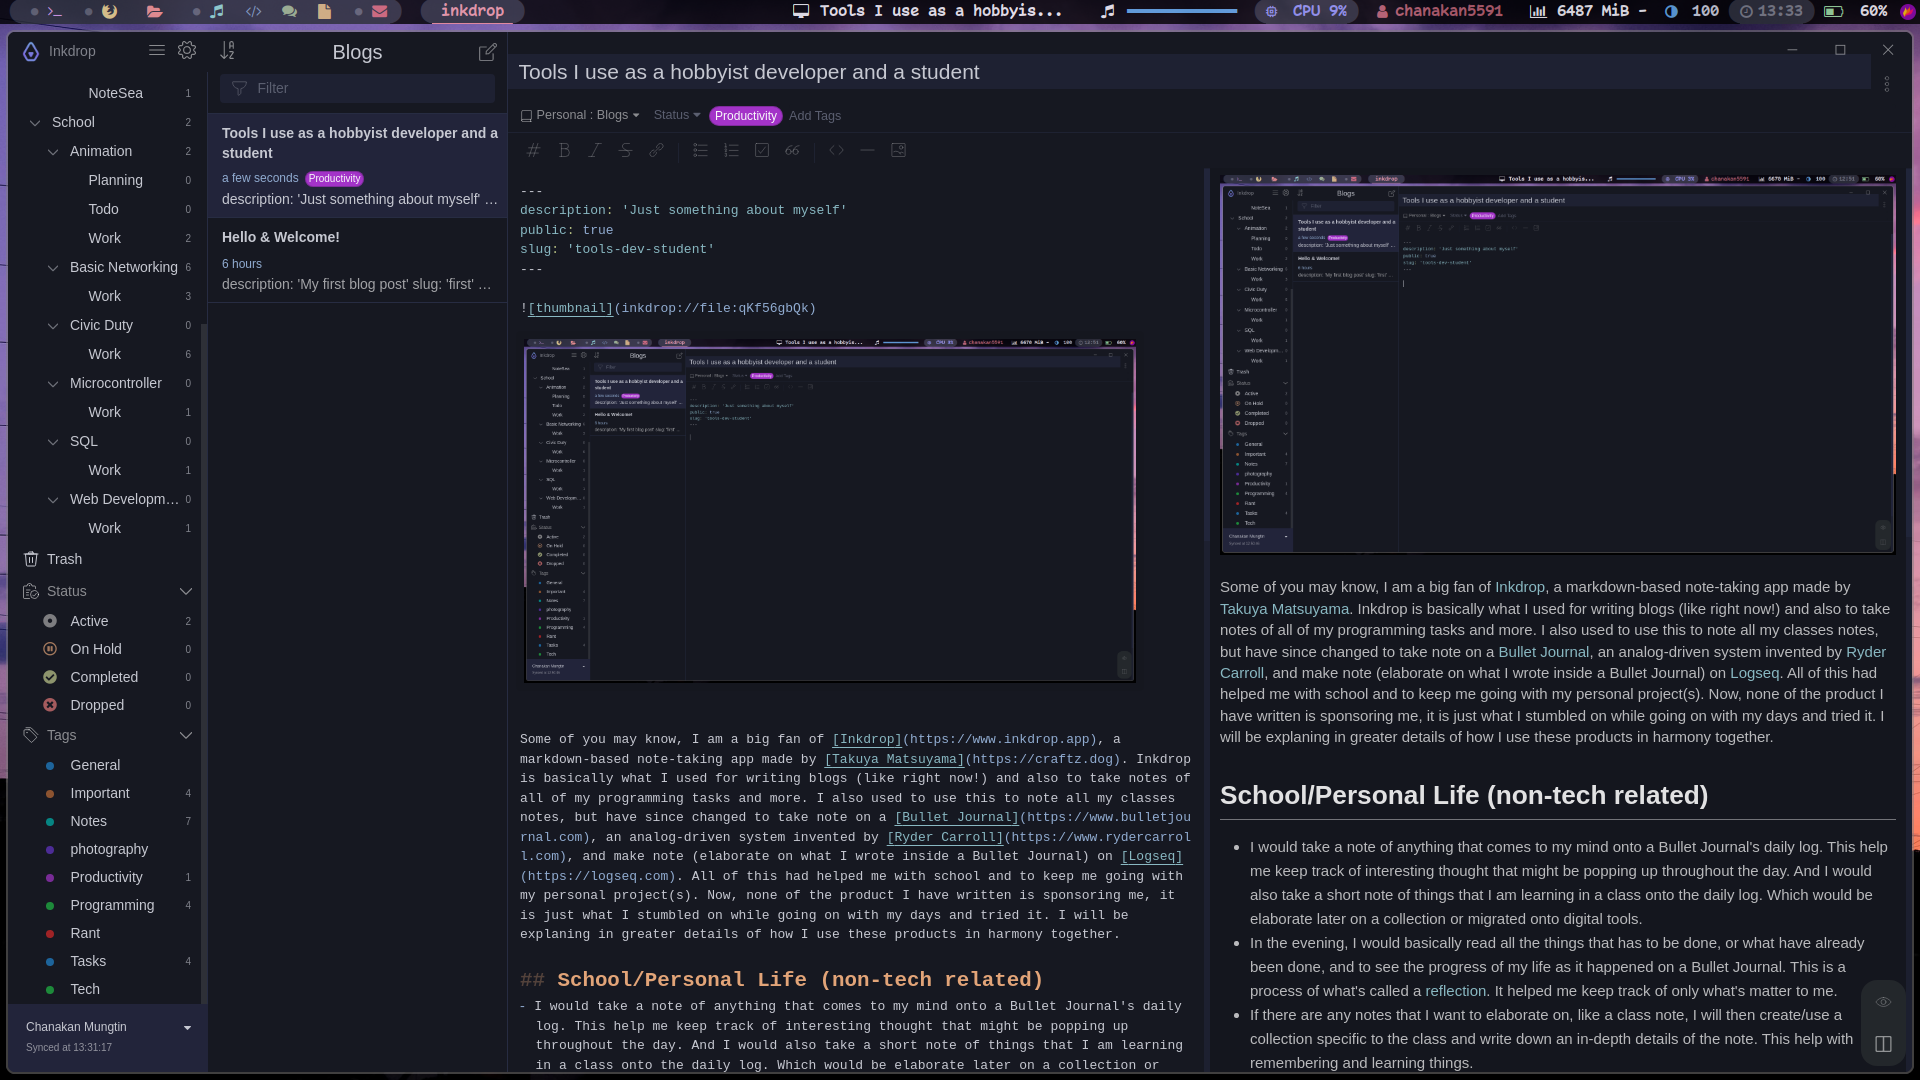
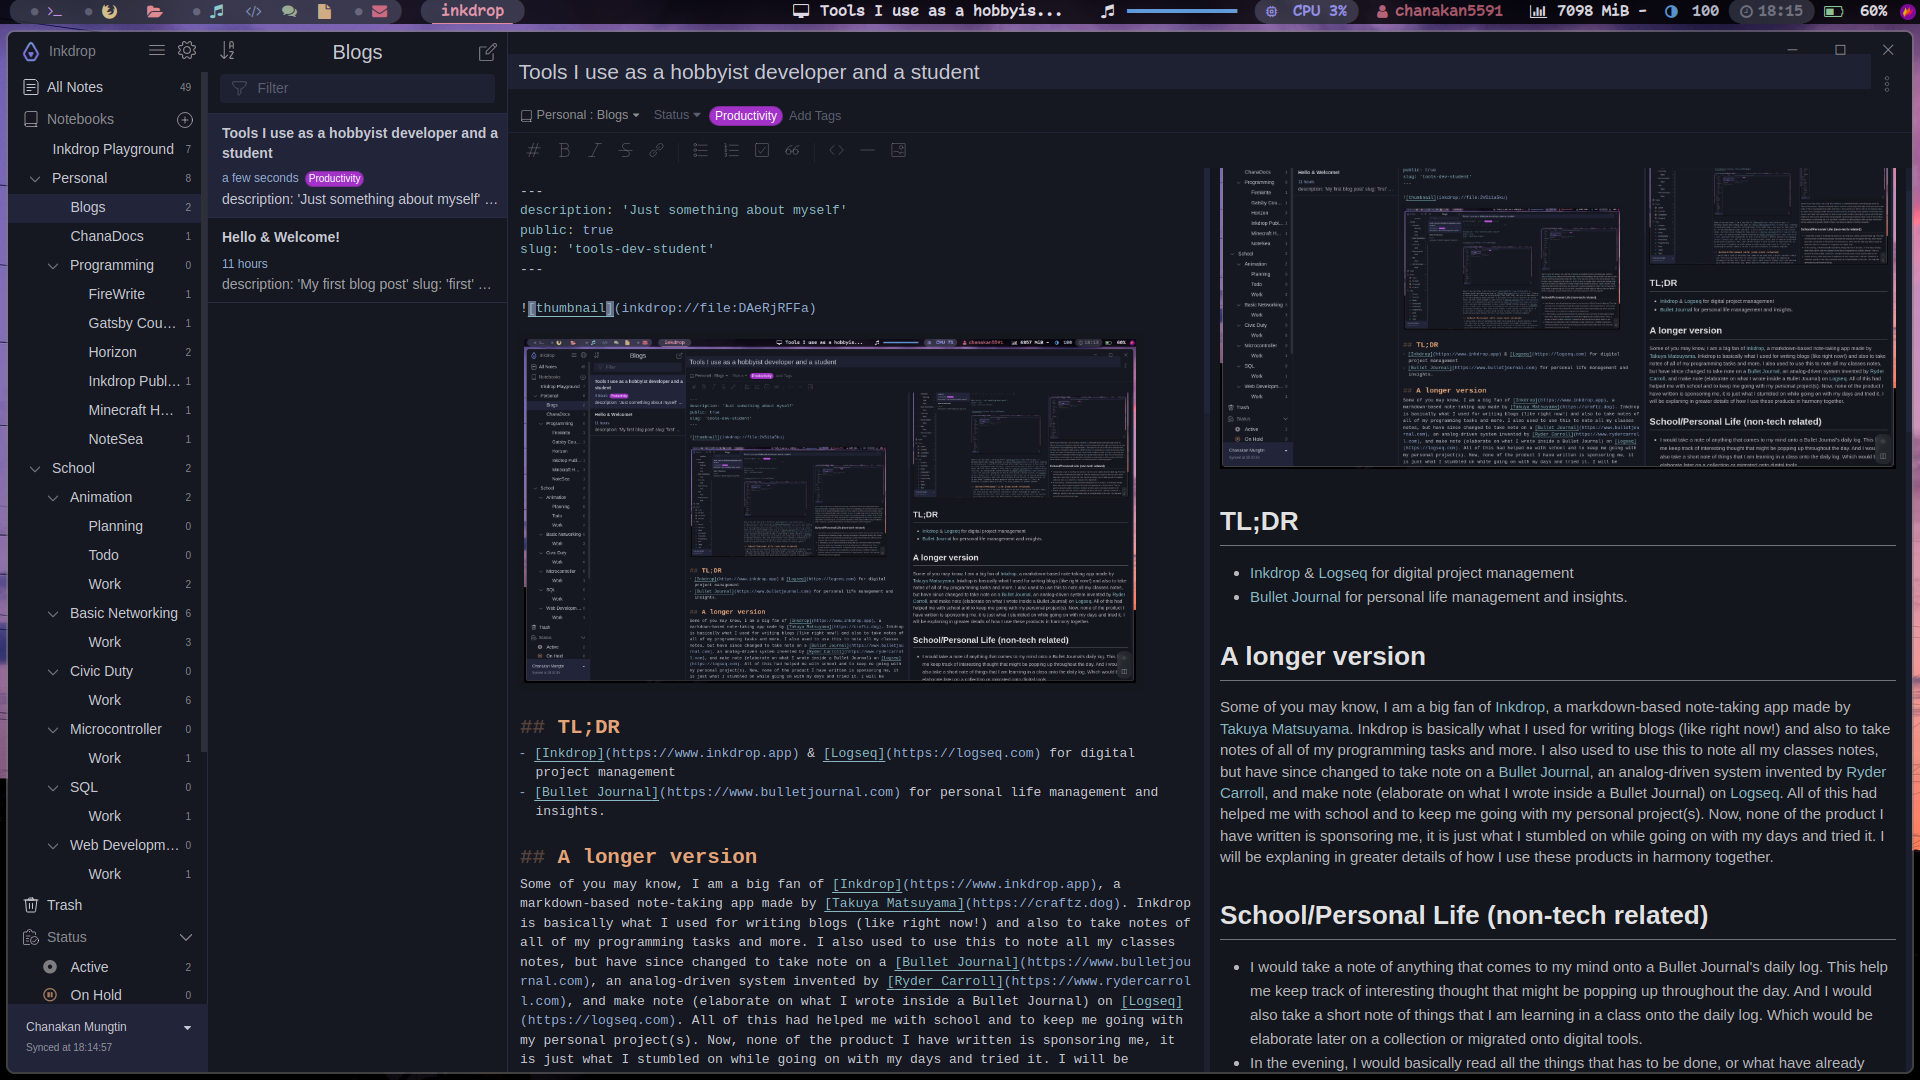
feat(post): added conclusion (tools)

diff --git a/src/pages/posts/tools-dev-student.md b/src/pages/posts/tools-dev-student.md
@@ -5,7 +5,7 @@ slug: tools-dev-student
 layout: ../../layouts/BlogPost.astro
 title: Tools I use as a hobbyist developer and a student
 createdAt: 1667108925901
-updatedAt: 1667113694235
+updatedAt: 1667129451393
 tags:
   - Productivity
 heroImage: /posts/tools-dev-student_thumbnail.png
@@ -31,4 +31,10 @@ Some of you may know, I am a big fan of [Inkdrop](https://www.inkdrop.app), a ma
 ## Why analog tools?
 ![bujo.png](/posts/tools-dev-student_bujo-png.png)
 
-I feels like in these digital world, there are simply too much information to consume all at once, and there are also unlimited amount of distraction, as soon as you open your phone to check something. [Research have shown](https://sci-hub.se/10.1086/691462) that simply just having a phone in the same room as you could reduce your cognitive capacity. And simply by having pen and paper, you wouldn't be able to write a whole lecture alone without thinking, right? Your brain try to shorten a sentence and using your own words so you would be able to write it down in time. Which means you will strategically think for a way to write things down faster. And it also help us with engaging with the information. Sure writing on a digital devices is easier and faster, but because it is "faster" we wouldn't have time to think about what we were writing down, and it would simply go pass by. And so I used an analog system to help me remember things, and to consider only what matters. 
+I feels like in these digital world, there are simply too much information to consume all at once, and there are also unlimited amount of distraction, as soon as you open your phone to check something. [Research have shown](https://sci-hub.se/10.1086/691462) that simply just having a phone in the same room as you could reduce your cognitive capacity. And simply by having pen and paper, you wouldn't be able to write a whole lecture alone without thinking, right? Your brain will try to shorten a sentence and you will start using your own words in a note so you would be able to write it down in time. Which means you will strategically think for a way to write things down faster. And it also help us with engaging with the information. Sure writing on a digital devices is easier and faster, but because it is "faster" we wouldn't have time to think about what we were writing down, and it would simply go pass by. And so I used an analog system to help me remember things, and to consider only what matters. My goal is to **not** eliminate everything digital. But rather to control it, and to still be able to do things when digital stuff fail.
+
+## Conclusion
+I think it all really depend on your need and preferences to choose a producitivty tools, I have also tried [Notion](https://www.notion.so) myself but it's just simply not my cup of tea. What matters the most is that the system "works" for you. I prefer having analog and digital system together just because I have to do a lot of stuff digitally anyway. If anyone wants to learn more about how to manage your times better, or to actually live an intentional life, I recommended reading some of the books below (None of the links are affiliated links either):
+- [Ryder Carroll - The Bullet Journal Method](https://www.amazon.com/Bullet-Journal-Method-Present-Design/dp/0525533338/)
+- [Tiago Forte - Building a Second Brain](https://www.amazon.com/Building-Second-Brain-Organize-Potential/dp/1982167386)
+- [Cal Newport - A World Without Email](https://www.amazon.com/World-Without-Email-Reimagining-Communication/dp/0525536558)
